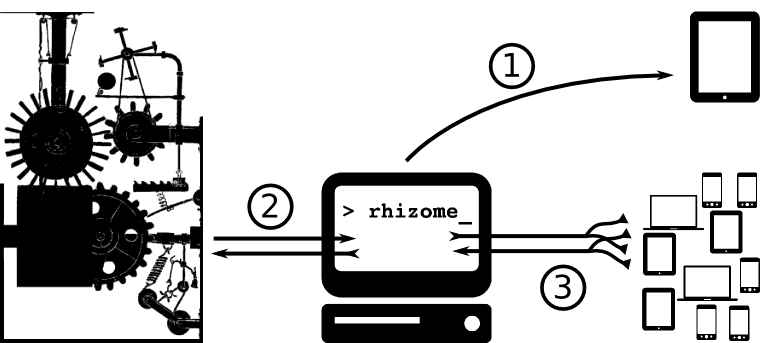
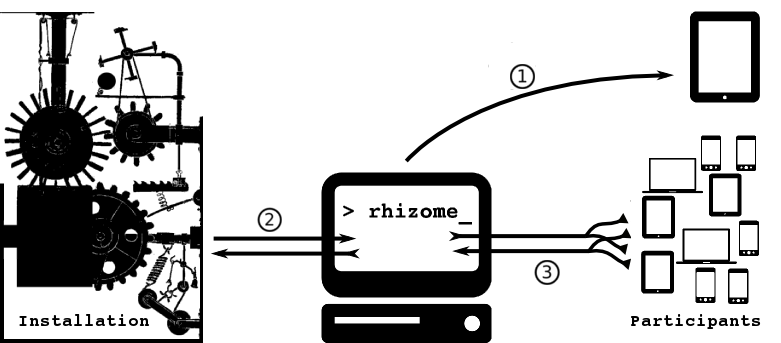
more docs for the example

diff --git a/example/simple/index.html b/example/simple/index.html
@@ -1,0 +1,87 @@
+<!DOCTYPE html>
+<html>
+<head>
+  <title>Rhizome example</title>
+  <script src="/rhizome/rhizome.js"></script>
+  <script src="js/jquery-2.1.0.min.js"></script>
+  <link rel="stylesheet" type="text/css" href="css/styles.css" />
+  <script>
+    $(function() {
+
+      // This is the radius of red dots when clicking
+      var clickTraceRadius = 30
+
+      // This function create a red dot at the given click position
+      var createClickTrace = function(clickX, clickY) {
+        clickTrace = $('<div>', {'class': 'clickTrace'})
+          .appendTo('#upperCanvas')
+          .css({
+            left: clickX - clickTraceRadius,
+            top: clickY - clickTraceRadius,
+            width: clickTraceRadius * 2,
+            height: clickTraceRadius * 2,
+            'border-radius': clickTraceRadius
+          })
+      }
+
+      // This function sets the color of the given canvas 
+      var setCanvasColor = function(canvasId, color) {
+        $(canvasId).css({'background-color': color})
+      }
+
+      // This function logs a message to the given canvas
+      var logMessage = function(canvasId, msg) {
+        $('<div>', {'class': 'logMessage'})
+          .html(msg)
+          .prependTo(canvasId + ' .console')
+      }
+
+      // `rhizome.start` is the first function that should be called. It opens the connection, and gets a user id.
+      // The function inside is executed once the connection has been established properly.
+      rhizome.start(function(err) {
+        if (err) throw err
+
+        $('#upperCanvas').click(function(event) {
+          var args = [rhizome.userId, event.pageX, event.pageY]
+          var address = '/click'
+          createClickTrace(event.pageX, event.pageY)
+          // `rhizome.message` sends a message to the server, which will transmit it to Pd/SuperCollider via OSC.
+          rhizome.message(address, args)
+          logMessage('#upperCanvas', 'SENT : [' + address + ' ' + args.toString() + ']')
+        })
+
+        // `rhizome.listen` binds a function to an address. Everytime a message is sent to that address, or a subaddress
+        // the function inside will be called.
+        rhizome.listen('/color', function(address, args) {
+          var userId = args[0]
+          var color = args[1]
+          if (userId === rhizome.userId) {
+            if (address === '/color/upperCanvas') {
+              setCanvasColor('#upperCanvas', color)
+            } else if (address === '/color/lowerCanvas') {
+              setCanvasColor('#lowerCanvas', color)
+            } else {
+              return logMessage('#lowerCanvas', 'RECEIVED unknown element : ' + address)
+            }
+            logMessage('#lowerCanvas', 'RECEIVED : [' + address + ' ' + args.toString() + ']')
+          } else logMessage('#lowerCanvas', 'RECEIVED message for another user')
+        })
+
+      })
+
+    })
+  </script>
+</head>
+
+<body>
+  <div id="upperCanvas">
+    <div><b>[Web page -> OSC]</b> click here to send a message to the OSC clients</div>
+    <div class="console"></div>
+  </div>
+  <div id="lowerCanvas">
+    <div><b>[OSC -> Web page]</b> when an OSC message is received, it changes the color here</div>
+    <div class="console"></div>
+  </div>
+</body>
+
+</html>

diff --git a/example/config.js b/example/config.js
@@ -1,38 +1,8 @@
 module.exports = function(config) {
 
-  /*
-  // Configurations for the http and websocket servers
-  server: {
-
-    // The port on which the html pages will be served, as well as websocket requests
-    port: 8008,
-
-    // The root of the rhizome application on the server
-    rootUrl: '/',
-
-    // The maximum amount of users accepted simultaneously
-    usersLimit: 40,
-  },
-
-  // Configuration for OSC server and clients 
-  osc: {
-
-    // The port on which rhizome will receive OSC messages
-    port: 9000,
-
-    // The host on which rhizome runs
-    hostname: 'localhost',
-
-    // A list of OSC clients to transmit user messages to.
-    // example :
-    // [ {ip: '192.168.0.200', port: 57120}, {ip: '192.168.0.205', port: 9001} ]
-    clients: [] 
-  }
-  */
-
   config.server.port = 8001
   config.server.pages = [
-    { rootUrl: '/clicks', dirName: './get_clicks_page' }
+    { rootUrl: '/example', dirName: './simple' }
   ]
 
   config.osc.port = 9000

diff --git a/README.md b/README.md
@@ -15,37 +15,34 @@
 So what does rhizome do precisely ?
 -------------------------------------
 
-**rhizome** does two things for you. Firstly it is a web server that can serve static content (web page, JavaScript files, images ...). Secondly it provides an easy API for transmitting messages **OSC <-> web page**, therefore allowing you to control the user's devices with your installation, or allowing the participants to control your installation with their smartphones, computers or tablets (in fact pretty much any device that has a web browser).
+Firstly, **rhizome** is a web server that can serve static content (HTML, JavaScript files, images ...). Secondly it is a solution for transmitting messages from **OSC** to a **web page** and back, therefore allowing you to control the user's devices with your installation, or allowing the participants to control your installation with their smartphones, computers or tablets.
 
-So **rhizome** provides you with a solid architecture for communication between a web page and a setup that supports OSC. But of course, you still have to implement what's on both ends of the chain :
+So basically **rhizome** provides you with a solid architecture for communication between a web page and a setup that supports OSC. But of course, you still have to implement what's on both ends of the chain :
 
-1. the installation / performance setup. It can be implemented with anything that supports **OSC** messaging (Pure Data, SuperCollider, openFrameworks, ...)
-2. the web page. It should be implemented with JavaScript and HTML. However, **rhizome** comes with a JavaScript file that provides an easy API for messaging with the server. So you shouldn't have to worry about the communication part. Instead, focus on implementing a nice user interface / cool visuals / cool sounds.
+- *the installation / performance setup*. It can be implemented with anything that supports **OSC** messaging (Pure Data, SuperCollider, openFrameworks, ...).
+
+- *the web page*. It should be implemented with **JavaScript** and **HTML**. **rhizome** comes with a JavaScript client handling all the communication for you. So you shouldn't have to worry about this, and instead, focus on implementing a nice user interface / cool visuals / cool sounds.
 
 
 Getting started
 -----------------
 
-#### Installing *Node.js* and *npm*
+##### 1) Install Node.js and npm
 
-The simplest way to do this (in my opinion) is by using [nvm](https://github.com/creationix/nvm).
-
-An alternative way is to download an installer directly from [Node.js website](http://nodejs.org/download/).
+The simplest and nicest way to do this is probably by installing [nvm](https://github.com/creationix/nvm). You can also download an installer directly from [Node.js website](http://nodejs.org/download/).
 
 
-#### Installing *rhizome*
+##### 2) Install rhizome
 
-Open a terminal, and simply run `npm install -g rhizome`.
-
-If this succeeded, you can try to run `rhizome`. This should print **rhizome** help message.
+Open a terminal, and simply run `npm install -g rhizome`. If this succeeded, you can try to run `rhizome`. This should print **rhizome** help message.
 
 
-#### Implementing stuff
+##### 3) Implement your thing 
 
 More documentation will come soon. But for the moment, you can check-out the [example](https://github.com/sebpiq/rhizome/tree/master/example).
 
 
-#### That's it!
+##### 4) That's it!
 
 Please if you have any feedback, any problem, if you need help, don't hesitate to drop a message in the [issue tracker](https://github.com/sebpiq/rhizome/issues). 
 

diff --git a/example/README.md b/example/README.md
@@ -1,0 +1,7 @@
+The *example* folder contains a full **rhizome** application. It is a very simple example of two ways communication between a Pd/SuperCollider patch and a webpage.
+
+To start the example, open your terminal and run `rhizome config.js`. This should start the server and print `rhizome ready`. Once the server is started, open your web browser, and go to the address [http://localhost:8001/example/index.html]. You should see a very simple web page with two pannels. Now, open either the SuperCollider or Pure Data patch (*osc-trace.sc* or *osc-trace.pd*). They will allow you to monitor OSC messages coming in.
+
+Now, time to play! Click anywhere on the upper pannel, and you should see the messages coming into Pure Data or SuperCollider. If you open the same page into another tab, and click again, you see that messages are sent as well but the first argument is different. This is because we send the **user id** as first argument. Each connected participant has a unique id that allows our installation to recognize him.
+
+We can also send messages the other way around. In the patches provided there should be something to do that. Send a message and observe the results on the web page!
